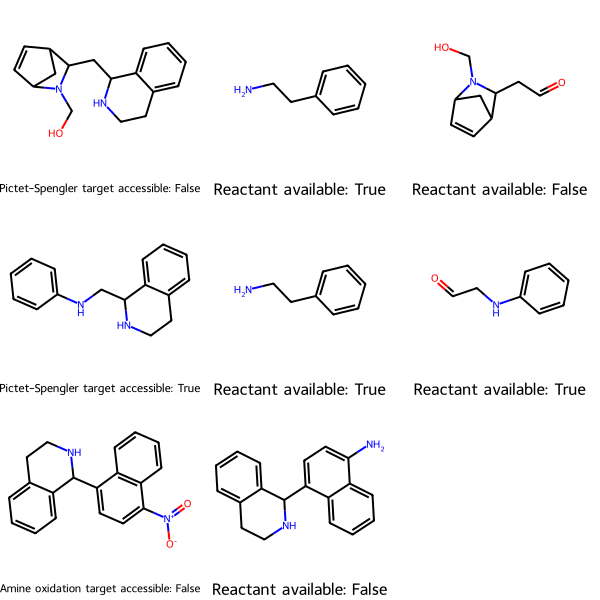
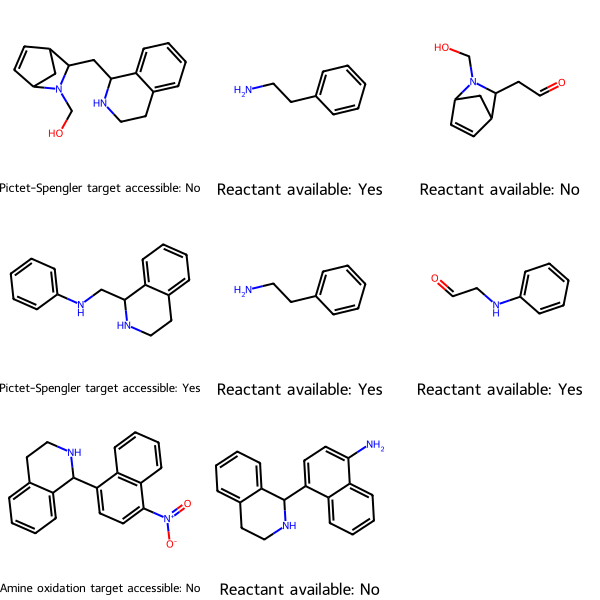
Update top image with Yes/No instead of True/False Remove errant image description

diff --git a/_posts/2023-02-07-Are-the-Starting-Materials-for-Synthesizing-Your-Target-Molecules-Commercially-Available.md b/_posts/2023-02-07-Are-the-Starting-Materials-for-Synthesizing-Your-Target-Molecules-Commercially-Available.md
@@ -95,8 +95,6 @@ It's thus advantageous to write your code asynchronously and use Semaphore. That
 
 <img alt="Four fully concurrent tasks, taking 0.8 seconds total" src="/images/timing_diagram_wide/003_four_fully_concurrent_tasks.jpeg" width="480" height="500">
 
-Four tasks running in two pipes, taking 1.6 seconds total
-
 <img alt="Four tasks running in two pipes, taking 1.6 seconds total" src="/images/timing_diagram_wide/004_four_tasks_in_two_pipes.jpeg" width="771" height="443">
 
 If you let each task run concurrently, the total time will be roughly the time of the longest task, for example 0.8 s.
